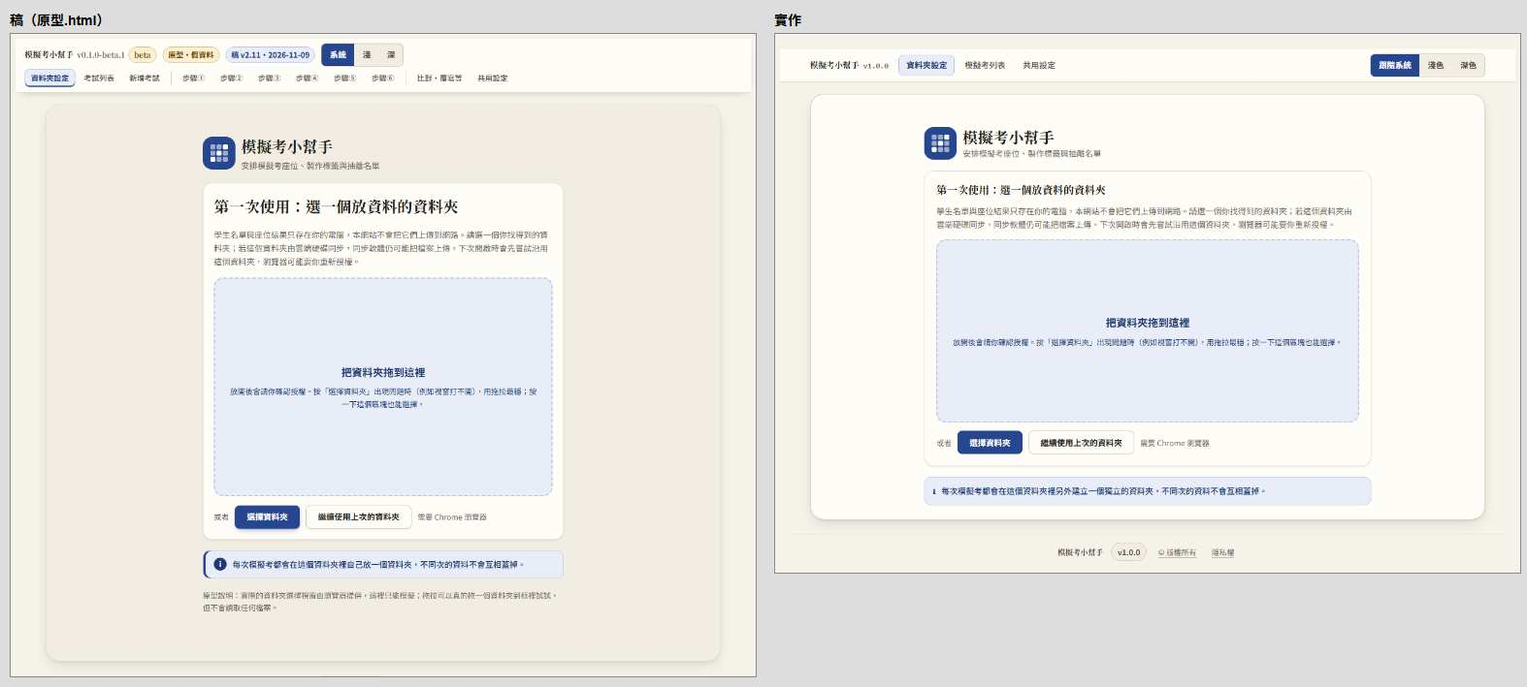
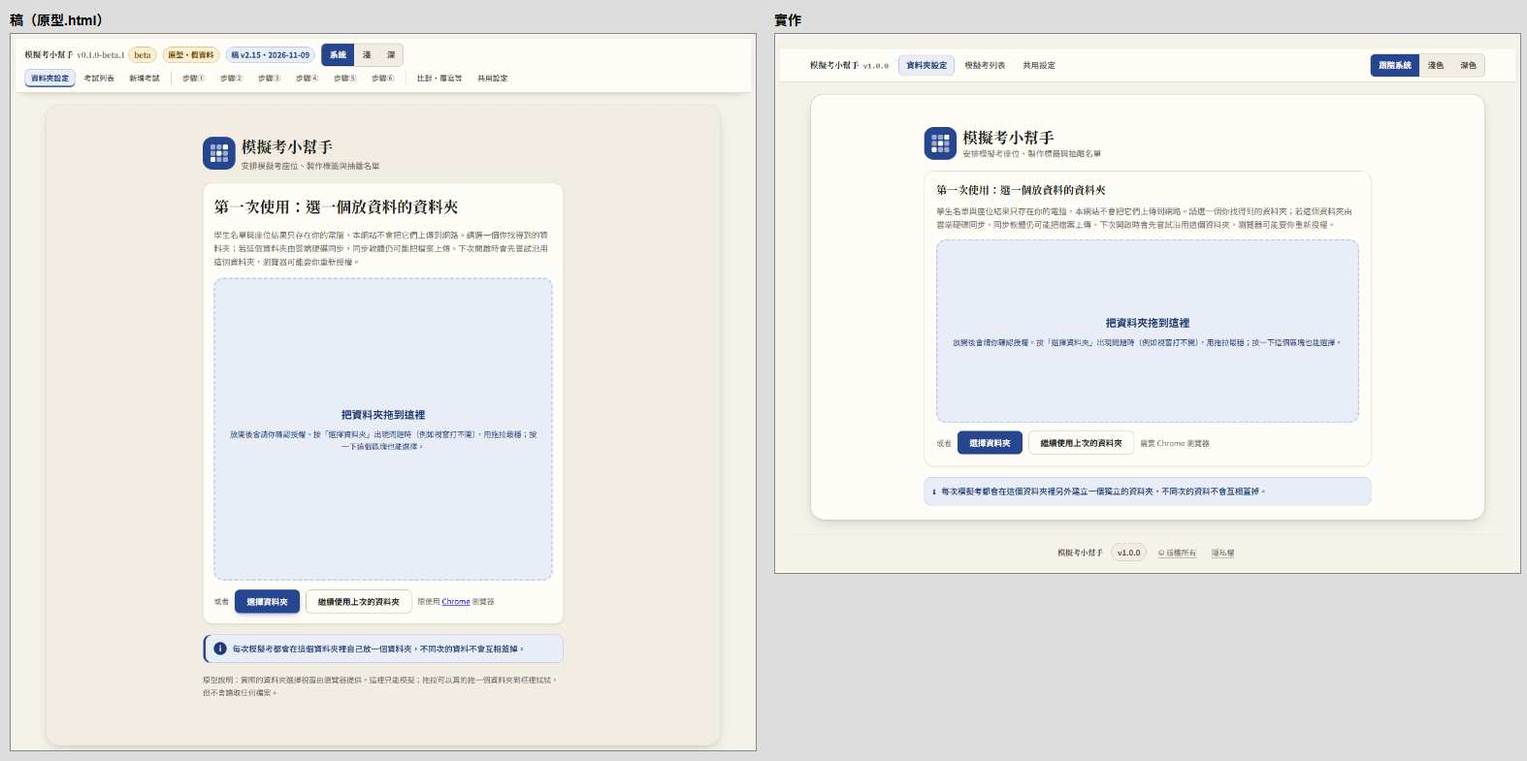
docs: 對稿-甲改依稿 v2.15 重驗（新增摘要列、學生名單命名、Chrome、拖放區等）

diff --git a/docs/design/實作對稿/對稿-甲.md b/docs/design/實作對稿/對稿-甲.md
@@ -1,111 +1,109 @@
-# 對稿-甲：實作 vs 稿（資料夾設定、考試列表、新增考試、步驟①、步驟②）
+# 對稿-甲（第二版，依稿 v2.15）：初始化、考試列表、新增考試、步驟①、步驟②
 
-基準：`origin/main` cf67141，稿 v2.11（`docs/design/mockups/原型.html` 版面基準、`設計系統.html` 元件／資訊基準）。稿以定案為準，實作要改成一致。
-方法：`scripts/compare-shots`（複製到暫存、改埠避免與其他對稿員撞埠）起 vite，headless Chrome 開稿與實作，淺色 375／1280 並排截圖（初始化、列表另有 820 與深色），並用腳本擷取兩邊的文字與按鈕尺寸逐項比對。所有資料為假資料（seed 的「甲生」「範例高中」），截圖在 `docs/design/實作對稿/截圖-甲/`（檔名＝頁名-寬度，左稿右實作）。
+基準：`origin/main` fe65909，稿 **v2.15**（`docs/design/mockups/原型.html` 版面、`設計系統.html` 元件與資訊）。第一版（稿 v2.11／main cf67141，ffb4d9e）已逐項重驗；`git diff cf67141 fe65909 -- src` 為空，**實作自上一版沒有任何改動**，所以第一版的實作端結論仍成立，只有稿端變了。
+規則：稿為準；稿上 D 編號與註解文字不進實作；`.pending` 不比；稿與規格衝突另列。
+方法：同第一版（`scripts/compare-shots` 複製到暫存、改埠，headless Chrome 開稿與實作，並排截圖＋文字與按鈕尺寸擷取）。截圖在 `截圖-甲/`（檔名＝頁名-寬度[深]，左稿右實作，淺色 375／820／1280，深色同寬）。全為假資料。**seed 假資料造成的差異（考科、人數、日期、座位數）不算**。
 
-**重要前提：seed 的假資料造成的差異不算**（例如學測第三次的考科顯示成「數學＋英聽」、各班人數、學生名單 0 人、日期、考生數）。下列只列畫面與行為差異。
+> **範圍說明**：調度員派工寫的負責頁面是「計畫頁・設定頁・初始化」，但本檔底稿與第一版範圍是「初始化、列表、新增考試、步驟①②」。本版沿用本檔範圍重驗；**計畫頁（拉皮稿）與設定頁未納入**，需調度員確認是否另派。
 
-## 一、差異總表（共 39 列；其中 A5、E10、E11、F6、F7 屬稿未定或未驗，不計入確定差異，確定差異 34 項：高 8、中 11、低 15）
+標記：仍成立／**過時**（稿已修掉或已不成立）／**新增**（v2.12～v2.15 帶來）／**衝突**。嚴重度：高＝肉眼一看就不同或功能缺；中＝元件或版面細部；低＝文字用詞。
 
-嚴重度：高＝肉眼一看就不同／功能缺；中＝元件或版面細部不同；低＝文字用詞。
+## 一、新增（v2.12～v2.15，屬本檔範圍）
 
-### A. 全頁共通（步驟①②都會遇到）
-
-| # | 類型 | 稿 | 實作 | 要改的地方 | 嚴重度 | 截圖 |
+| # | 類型 | 稿＝ | 實作＝ | 檔案 | 嚴重度 | 截圖 |
 |---|---|---|---|---|---|---|
-| A1 | UI | 步驟頁最上方一列標題列：「← 模擬考列表」＋考試名稱大標題＋類型 badge＋「已儲存到資料夾」＋「↶ 復原 ▾」＋「設定」鈕，整列在大外框內、左側欄之上 | 沒有這一列。考試名稱與 badge 改放在全站導覽下的次導覽列（名稱＋badge＋①～⑥ 分頁鈕）；「復原」單獨一列靠右；沒有「已儲存」、沒有「設定」入口、沒有返回列表鈕 | `App.tsx`、`StepSide.tsx`、步驟外框元件 | 高 | 04步驟①-1280 |
-| A2 | UI | 全站導覽只有稿工具列（稿特有，不算差異） | 實作多一排「① 考試設定 … ⑥ 下載」分頁鈕，與左側步驟欄重複 | 次導覽列（見 A1），稿沒有這排 | 中 | 04步驟①-1280 |
-| A3 | UI | 左側步驟欄：每項兩行——標題＋狀態與說明（如「已完成・匯入、比對、參加者」「過期・班級色、驗證、統計」），圖示 ✓／!／數字；欄寬約 208 | 每項一行：數字圓＋標題＋靠右的狀態字（目前／已完成／未完成），沒有說明文字、沒有「過期」「不需要」狀態、沒有 ✓／! 圖示；欄寬約 230 | `StepSide.tsx` 步驟列元件 | 高 | 04步驟①-1280、04步驟①-375 |
-| A4 | UI | 「第 1／6 步　已完成 4 步」在步驟欄頂端（兩邊都有，一致） | — | — | — | — |
-| A5 | UI | 沒有常駐摘要列（稿修正-todo B12，使用者尚待裁示） | 步驟欄上方多一列「考生 N 座位 N 空位 N 待處理 N」 | 列入「稿未定」；若使用者裁示不保留，實作要拿掉 | — | 04步驟①-1280 |
-| A6 | UI | 「下一步」鈕文字「完成此步，前往 ② 考試名單」，位於步驟標題卡右側 | 位置相同，文字「下一步：② 考試名單 →」 | 步驟標題卡 | 低 | 04步驟①-1280 |
-| A7 | UI | 步驟標題卡副標一句：「類型、次別、考科」「匯入、比對、參加者」（與步驟欄說明同源） | 副標是整句說明（「名稱、學期、次別與考科表；考科表決定…」「這次誰參加、考什麼科。匯入大考中心格式的考生資料名單…」） | 兩個步驟頁的標題卡文字 | 低 | 04步驟①-1280 |
-| A8 | UI | 稿的復原鈕在標題列，為「↶ 復原」＋「▾」（歷史）；列表頁沒有復原鈕 | 復原鈕在每頁（含新增考試、列表）頁面上方獨立一列靠右，沒有「▾」 | 復原按鈕元件與擺放位置 | 中 | 02模擬考列表-820、03新增模擬考-1280 |
-| A9 | UI | 右側「本次摘要」大字「上學期」單行 | 1280 寬時摘要欄太窄，「上學期／下學期」32px 大字折成兩行（「上學／期」），375 寬正常 | 摘要卡欄寬或字級；稿 v2.2 曾特別修過「學期單行」 | 高 | 04步驟①-1280、04d分科步驟①-1280 |
+| N1 | UI＋行為 | **常駐摘要列**（v2.12/v2.13/v2.15）：步驟內容上方，四格 chip「考生 266／座位 266／空位 0／待處理 1」，待處理為琥珀鈕可點跳第一個問題；其下「待處理逐項」卡：步驟（③ 教室設定）、項目標題（預備教室座位不足）、細節（「社會」那一節：抽離考試 0＋抽離自習 71）、右側「需要 71／可用 0／缺少 71」與「前往處理 ›」；未完成的步驟也算待處理；空位不足改「缺位」紅字；未匯入顯示「尚未匯入考試名單」 | 單行：左「考生 N 座位 N 缺位 N」，右一個琥珀框「⚠ 待處理 3　③ 座位 84 少於考生 210，還差 126 個　去 ③ 增加座位」。沒有四格 chip 樣式、沒有逐項卡、沒有「需要／可用／缺少」三欄、「前往處理」是行內底線連結；待處理只顯示第一項的一句話 | 摘要列元件（`.sumbar`）、`StepSide.tsx` | 高 | 04b步驟②待處理-1280、04步驟①-1280 |
+| N2 | UI | 步驟② 各班人數：**一排橫向班級 chip**（● 溫 44　● 良 45 … 合計 266），一張小卡 | 一張卡片，6 列直式表格（班級色圓＋人數）＋合計，與「名單比對」卡並排佔兩欄 | `Step2.tsx` | 中 | 04步驟②-1280、04b步驟②待處理-1280 |
+| N3 | UI | 步驟② **底部沒有「名單比對」小卡**（v2.15⑤，頂端比對結果提示條已涵蓋） | 仍有「名單比對」卡：「與考試名單已比對…」＋「考生 210 人。」 | `Step2.tsx` | 中 | 04步驟②-1280 |
+| N4 | 文字 | 學生名單命名依部別：步驟②卡片「**高三學生名單**／**國三學生名單**」，按鈕「查看／編輯高三學生名單」；步驟①沿用表「高三學生名單 266 人」 | 「共用學生名單」「查看／編輯共用學生名單」；步驟①沿用表「學生名單快照 210 人」；各班人數卡標題「各班人數（共用學生名單）」 | `Step2.tsx`、`Step1.tsx`、`carry.ts` | 中 | 04步驟②-1280 |
+| N5 | 文字＋元件 | 初始化：「**限使用 Chrome 瀏覽器**」，「Chrome」是連結（`https://www.google.com/intl/zh-TW/chrome/`，另開分頁） | 「需要 Chrome 瀏覽器」，純文字無連結 | `Init.tsx:56` | 中 | 01初始化-1280 |
+| N6 | UI | 初始化拖放區再加大：`min-height:clamp(280px,48vh,520px)`、padding 44/24（1280×900 約 580×430） | `clamp(200px,34vh,380px)`、padding 28/20（約 582×306） | `src/styles/app.css:206` | 中 | 01初始化-1280、01初始化-1280深 |
+| N7 | 文字 | 畫面上不再出現內部決定編號：稿已拿掉「（D52）」「（D34）」「（D42）」「（D64）」 | 實作本來就沒有（一致）。**第一版「稿疑似有誤」1、2 兩項過時** | — | — | — |
 
-### B. 資料夾設定（初始化）
+## 二、全頁共通（步驟①②都會遇到）
 
-| # | 類型 | 稿 | 實作 | 檔案 | 嚴重度 | 截圖 |
-|---|---|---|---|---|---|---|
-| B1 | UI | 大外框底色為米色（頁底），白卡片置於其上，層次明顯 | 外框與卡片同為近白，層次不明顯，看起來比稿「平」 | 外框 CSS（`app.css` 的 `.wrap`／卡片底） | 中 | 01初始化-1280 |
-| B2 | UI | 底部「原型說明」一段（稿特有，不算差異） | — | — | — | — |
-| B3 | 文字 | 提示：「每次模擬考都會在這個資料夾裡自己放一個資料夾，不同次的資料不會互相蓋掉。」 | 「…另外建立一個獨立的資料夾…」 | `Init.tsx` | 低 | 01初始化-1280 |
-| B4 | UI | 拖拉框、「或者／選擇資料夾／繼續使用上次的資料夾」列、尺寸（582×306，clamp(200px,34vh,380px)）：**一致** | 一致 | — | — | — |
+| # | 類型 | 稿＝ | 實作＝ | 檔案 | 嚴重度 | 狀態 | 截圖 |
+|---|---|---|---|---|---|---|---|
+| A1 | UI | 步驟頁最上方標題列：「← 模擬考列表」＋考試名稱大標題＋類型 badge＋「已儲存到資料夾」＋「↶ 復原 ▾」＋「設定」鈕 | 沒有這列；名稱與 badge 放在全站導覽下次導覽列；「復原」另起一列靠右；無「已儲存」、無「設定」入口、無返回列表鈕 | `App.tsx`、`StepSide.tsx` | 高 | 仍成立 | 04步驟①-1280 |
+| A2 | UI | 沒有「① 考試設定 … ⑥ 下載」分頁鈕列 | 次導覽列多一排分頁鈕，與左側步驟欄重複 | 次導覽列 | 中 | 仍成立 | 04步驟①-1280 |
+| A3 | UI | 左側步驟欄每項兩行：標題＋狀態與說明（如「已完成・匯入、比對、參加者」「過期・班級色、驗證、統計」）；✓／!／數字圖示；欄寬約 208 | 每項一行：數字圓＋標題＋靠右狀態字（目前／已完成／未完成），沒有說明、沒有「過期」「不需要」狀態與 ✓／! 圖示；欄寬約 230 | `StepSide.tsx` | 高 | 仍成立 | 04步驟①-1280、04步驟①-375 |
+| A5 | — | 摘要列已定案（見 N1） | — | — | — | **過時**（第一版列為稿未定，現已定案，改併入 N1） | — |
+| A6 | 文字 | 下一步鈕「完成此步，前往 ② 考試名單」，在步驟標題卡右側 | 位置相同；文字「下一步：② 考試名單 →」 | 步驟標題卡 | 低 | 仍成立 | 04步驟①-1280 |
+| A7 | 文字 | 標題卡副標一句：「類型、次別、考科」「匯入、比對、參加者」 | 整句說明（「名稱、學期、次別與考科表；…」「這次誰參加、考什麼科。匯入大考中心格式的考生資料名單…」） | 兩個步驟頁標題卡 | 低 | 仍成立 | 04步驟①-1280 |
+| A8 | UI | 復原鈕在標題列，「↶ 復原」＋「▾」歷史；列表頁沒有復原鈕 | 復原鈕在每頁（含列表、新增考試）頁頂獨立一列靠右，無「▾」 | 復原按鈕元件 | 中 | 仍成立 | 02模擬考列表-820、03新增模擬考-1280 |
+| A9 | UI | 右側「本次摘要」大字「上學期」單行 | 1280 寬時「上學期／下學期」32px 大字折成兩行；375 寬正常 | 摘要卡欄寬／字級 | 高 | 仍成立 | 04步驟①-1280 |
 
-### C. 考試列表
+## 三、初始化
 
-| # | 類型 | 稿 | 實作 | 檔案 | 嚴重度 | 截圖 |
-|---|---|---|---|---|---|---|
-| C1 | UI | 資料夾路徑 chip 顯示完整路徑「D:\模擬考資料」 | 只顯示資料夾名「模擬考資料」（瀏覽器取不到完整路徑，可能是平台限制；需裁示是否接受） | `Exams.tsx` | 低 | 02模擬考列表-820 |
-| C2 | UI | 列表頁頁首沒有復原鈕 | 多一個「↶ 復原」（見 A8） | `Exams.tsx` | 中 | 02模擬考列表-820 |
-| C3 | 文字 | 進度文字「進行中：排座與預覽」 | 「進行中：③ 教室設定」，多了圈號 | `examList.ts` | 低 | 02模擬考列表-820 |
-| C4 | UI | 頁首兩列：全站導覽、標題與按鈕在外框內 | 實作導覽在外框外，標題在框內，與稿相同；版面一致 | — | — | — |
+| # | 類型 | 稿＝ | 實作＝ | 檔案 | 嚴重度 | 狀態 | 截圖 |
+|---|---|---|---|---|---|---|---|
+| B1 | UI | 大外框米色底，白卡片置於其上，層次明顯 | 外框與卡片同為近白，層次不明顯 | `app.css` 外框／卡片底 | 中 | 仍成立 | 01初始化-1280 |
+| B3 | 文字 | 「…裡自己放一個資料夾，不同次的資料不會互相蓋掉。」 | 「…另外建立一個獨立的資料夾…」 | `Init.tsx` | 低 | 仍成立 | 01初始化-1280 |
+| （拖拉框與「或者／選擇資料夾／繼續使用上次的資料夾」列的位置、樣式一致；尺寸見 N6；Chrome 字樣見 N5） | | | | | | | |
 
-（列表卡片、六格進度、圖例、頁尾版本號鈕、開啟鈕：與稿一致。）
+## 四、考試列表
 
-### D. 新增考試
+| # | 類型 | 稿＝ | 實作＝ | 檔案 | 嚴重度 | 狀態 | 截圖 |
+|---|---|---|---|---|---|---|---|
+| C1 | UI | 路徑 chip 顯示「D:\模擬考資料」 | 只顯示「模擬考資料」（瀏覽器取不到完整路徑，平台限制；列為「需使用者決定」） | `Exams.tsx` | 低 | 仍成立 | 02模擬考列表-820 |
+| C2 | UI | 列表頁沒有復原鈕 | 多一個「↶ 復原」（見 A8） | `Exams.tsx` | 中 | 仍成立 | 02模擬考列表-820 |
+| C3 | 文字 | 進度「進行中：排座與預覽」 | 「進行中：③ 教室設定」，多圈號 | `examList.ts` | 低 | 仍成立 | 02模擬考列表-820 |
 
-| # | 類型 | 稿 | 實作 | 檔案 | 嚴重度 | 截圖 |
-|---|---|---|---|---|---|---|
-| D1 | 元件 | 「學期」是並排選項卡：「上學期［已選］」「下學期」（寬約 132／76，高 45） | 原生 `<select>` 下拉（262×40） | `NewExam.tsx:68`（`<select id="exam-term">`） | 高 | 03新增模擬考-1280 |
-| D2 | 文字 | 學期下方說明：「學測預設上學期、分科預設下學期（切換類型時自動帶入，仍可自己改）；學年度依今天的日期自動算：115 學年」 | 只有「學年度依今天的日期自動算：115 學年」，沒有預設說明 | `NewExam.tsx` | 中 | 03新增模擬考-1280 |
-| D3 | 文字 | 會考卡：「…（固定七科），不分文理組、沒有選考」 | 「…（固定七科），沒有選考」，少「不分文理組」 | `NewExam.tsx` 類型卡文字 | 低 | 03新增模擬考-1280 |
-| D4 | 文字 | 第 3 張卡說明：「會帶入『某某』的設定：學生名單、教室、標示與抽離規則、名稱以外的選項」 | 「會帶入『某某』的設定：教室、標示與抽離規則、參加方式、標籤格式與自訂考科」，內容不同（且稿寫的是學生名單） | `NewExam.tsx` | 中 | 03新增模擬考-1280 |
-| D5 | UI | 「← 回模擬考列表」按鈕高 40、寬 135（正常按鈕） | 高 32、寬 115（小按鈕尺寸） | `NewExam.tsx` 頁首鈕 | 低 | 03新增模擬考-1280 |
-| D6 | UI | 第 3 張卡說明沒有圖示（單純文字） | 帶 ℹ 圖示的 info alert | `NewExam.tsx` | 低 | 03新增模擬考-1280 |
-| D7 | 行為 | 切換類型時學期自動帶入（學測上、分科下）、手動改後不再自動 | 邏輯已有（`defaultSemester`、`semEdited`），行為一致 | — | — | — |
+## 五、新增考試
 
-### E. 步驟① 考試設定
+| # | 類型 | 稿＝ | 實作＝ | 檔案 | 嚴重度 | 狀態 | 截圖 |
+|---|---|---|---|---|---|---|---|
+| D1 | 元件 | 「學期」並排選項卡（「上學期［已選］」「下學期」，高 45） | 原生 `<select>` 下拉（262×40） | `NewExam.tsx:68` | 高 | 仍成立 | 03新增模擬考-1280 |
+| D2 | 文字 | 學期說明：「學測預設上學期、分科預設下學期（切換類型時自動帶入，仍可自己改）；學年度依今天的日期自動算：115 學年」 | 只有「學年度依今天的日期自動算：115 學年」 | `NewExam.tsx` | 中 | 仍成立 | 03新增模擬考-1280 |
+| D3 | 文字 | 會考卡「…（固定七科），不分文理組、沒有選考」 | 「…沒有選考」，少「不分文理組」 | `NewExam.tsx` | 低 | 仍成立 | 03新增模擬考-1280 |
+| D4 | 文字 | 第 3 張卡：「會帶入『某某』的設定：學生名單、教室、標示與抽離規則、名稱以外的選項」 | 「…：教室、標示與抽離規則、參加方式、標籤格式與自訂考科」，內容不同 | `NewExam.tsx` | 中 | 仍成立 | 03新增模擬考-1280 |
+| D5 | UI | 「← 回模擬考列表」高 40、寬 135 | 高 32、寬 115（小按鈕） | `NewExam.tsx` | 低 | 仍成立 | 03新增模擬考-1280 |
+| D6 | UI | 第 3 張卡說明沒有圖示 | 帶 ℹ 圖示 info alert | `NewExam.tsx` | 低 | 仍成立 | 03新增模擬考-1280 |
 
-| # | 類型 | 稿 | 實作 | 檔案 | 嚴重度 | 截圖 |
-|---|---|---|---|---|---|---|
-| E1 | 元件 | 「學期」並排選項卡（同 D1），名稱與學期在同一列兩欄 | `<select>`，欄位為上下兩欄（名稱列、學期列堆疊） | `Step1.tsx` | 高 | 04步驟①-1280 |
-| E2 | UI | 基本資料沒有卡片標題；直接是欄位（在步驟標題卡之下的卡片內） | 卡片有 h3「基本資料」＋副標「類型建立後不可更改。」 | `Step1.tsx` | 低 | 04步驟①-1280 |
-| E3 | 文字 | 學期說明：「學測預設上學期、分科預設下學期；學年度（115）依建立日期自動算」 | 「學年度依建立日期自動算」，沒有預設說明、沒有學年度數字 | `Step1.tsx` | 中 | 04步驟①-1280 |
-| E4 | 文字 | 「類型與對象」：「高中部・學測」「高三」 | 「學測」「高三」，少「高中部・」 | `Step1.tsx` | 低 | 04步驟①-1280 |
-| E5 | 文字 | 次別說明：「第 1、2 次數學是單一科，第 3 次起分為數學A、數學B」 | 「第 1、2 次：數學為單一科，另考英聽　｜　第 3 次起：數學分為數學A、數學B」 | `Step1.tsx` | 低 | 04步驟①-1280 |
-| E6 | UI | 375 寬次別鈕一排四顆等寬 | 375 寬時四顆鈕擠成窄鈕，字折行（「第一／次」） | `Step1.tsx` 次別 seg 鈕 | 中 | 04步驟①-375 |
-| E7 | 文字 | 考科表標題「考科表」，副標「依類型與次別自動帶出，可以新增、編輯、刪除（D52）」（D52 為稿內部字樣） | 標題「本次考科表」，副標「…；只影響這一次模擬考。」 | `Step1.tsx` | 低 | 04步驟①-1280 |
-| E8 | 文字 | 沿用表第二列：「共用學生名單 266 人；…」；第四列：「數學由單一科改為數學A、數學B，組別對照表要重新確認」 | 「學生名單快照 210 人；…」（D84：現況應稱「共用學生名單」）；「數學分科方式與上次不同…」 | `Step1.tsx` 沿用表、`carry.ts` | 中 | 04步驟①-1280 |
-| E9 | UI | 摘要卡副標：「高中部・學測・115 學年・高三」 | 「學測・115 學年・高中部」，順序與內容不同 | `StepSide.tsx` | 低 | 04步驟①-1280 |
-| E10 | 行為 | 沒有「次別改了，④ 已標為過期」的警示卡 | 摘要欄下方多一張琥珀警示卡（可能是改次別後才有；seed 觸發） | `StepSide.tsx` | 低 | 04步驟①-1280 |
-| E11 | UI | 分科：次別欄標「分科有沒有次別…還沒確認」（`.pending`，稿未定，見第三節） | 沒有次別欄 | — | — | 04d分科步驟①-1280 |
-| E12 | 文字／UI | 分科考科表上方有一則說明 alert：「分科八科都是選考：數學甲…；國文、英文不加考（採學測成績）。每位考生考哪幾科，依考試名單的「組別／考科」文字決定…」 | 沒有這則 alert（會考、學測有 alert，分科缺） | `Step1.tsx` | 中 | 04d分科步驟①-1280 |
+## 六、步驟① 考試設定
 
-### F. 步驟② 考試名單
+| # | 類型 | 稿＝ | 實作＝ | 檔案 | 嚴重度 | 狀態 | 截圖 |
+|---|---|---|---|---|---|---|---|
+| E1 | 元件 | 學期並排選項卡；名稱與學期同一列兩欄 | `<select>`；名稱列、學期列上下堆疊 | `Step1.tsx` | 高 | 仍成立 | 04步驟①-1280 |
+| E2 | UI | 基本資料沒有卡片標題 | 卡片有 h3「基本資料」＋副標 | `Step1.tsx` | 低 | 仍成立 | 04步驟①-1280 |
+| E3 | 文字 | 「學測預設上學期、分科預設下學期；學年度（115）依建立日期自動算」 | 「學年度依建立日期自動算」 | `Step1.tsx` | 中 | 仍成立 | 04步驟①-1280 |
+| E4 | 文字 | 「高中部・學測」「高三」 | 「學測」「高三」 | `Step1.tsx` | 低 | 仍成立 | 04步驟①-1280 |
+| E5 | 文字 | 「第 1、2 次數學是單一科，第 3 次起分為數學A、數學B」 | 「第 1、2 次：數學為單一科，另考英聽　｜　第 3 次起：…」 | `Step1.tsx` | 低 | 仍成立 | 04步驟①-1280 |
+| E6 | UI | 375 寬次別鈕一排四顆等寬 | 375 寬四顆鈕過窄、字折行（「第一／次」） | `Step1.tsx` | 中 | 仍成立 | 04步驟①-375 |
+| E7 | 文字 | 標題「考科表」，副標「依類型與次別自動帶出，可以新增、編輯、刪除」（v2.15 已去掉 D52） | 標題「本次考科表」，副標多「；只影響這一次模擬考。」 | `Step1.tsx` | 低 | 仍成立（稿已去 D52，只剩標題與副標差異） | 04步驟①-1280 |
+| E8 | 文字 | 沿用表：「高三學生名單 266 人；…」「數學由單一科改為數學A、數學B，組別對照表要重新確認」 | 「學生名單快照 210 人；…」「數學分科方式與上次不同…」 | `Step1.tsx`、`carry.ts` | 中 | 仍成立（名稱見 N4） | 04步驟①-1280 |
+| E9 | 文字 | 摘要卡副標「高中部・學測・115 學年・高三」 | 「學測・115 學年・高中部」 | `StepSide.tsx` | 低 | 仍成立 | 04步驟①-1280 |
+| E10 | 行為 | 沒有「次別改了，④ 已標為過期」警示卡 | 摘要欄下多一張琥珀警示卡（改次別後出現） | `StepSide.tsx` | 低 | 仍成立（是否算實作多餘，待使用者裁示；稿未畫） | 04步驟①-1280 |
+| E12 | 文字／UI | 分科考科表上方 alert：「分科八科都是選考：數學甲…；國文、英文不加考（採學測成績）。每位考生考哪幾科，依考試名單的「組別／考科」文字決定…」 | 沒有這則 alert | `Step1.tsx` | 中 | 仍成立 | 04d分科步驟①-1280 |
 
-| # | 類型 | 稿 | 實作 | 檔案 | 嚴重度 | 截圖 |
-|---|---|---|---|---|---|---|
-| F1 | 文字 | 檔名 badge：「考試名單.xlsx（模擬檔）」 | 「Excel（.xlsx）」＋多一個「已完成」badge | `Step2.tsx` | 低 | 04步驟②-1280 |
-| F2 | 文字 | 「各班人數」 | 「各班人數（共用學生名單）」 | `Step2.tsx` | 低 | 04步驟②-1280 |
-| F3 | 文字 | 「名單比對（D42）」（內部編號，稿字樣） | 「名單比對」＋多一行「考生 210 人。」 | `Step2.tsx` | 低 | 04步驟②-1280 |
-| F4 | UI | 「誰會參加」下的提示：全員參加為純文字，部分參加為提示 | 兩種皆為 ℹ info alert（版型略不同）；文字也不同（稿：「沒報名的人不算差異，只在統計列顯示「未參加 12 人」…」；實作：「共用學生名單裡有、但不在本次考試名單的人，不視為名單錯誤，只在…」） | `Step2.tsx:178 附近` | 低 | 04d分科步驟②-1280 |
-| F5 | UI | 分科：「匯入預覽：組別／考科」整張卡（說明＋六列預覽表：班級、座號、姓名、名單上的「組別／考科」、解析出的選考科目，含預設理組／文組、「依名單」標示） | 步驟頁沒有這張卡（可能只在匯入精靈內；本次沒有實際走匯入精靈驗證） | `Step2.tsx`、`ImportWizard.tsx` | 高 | 04d分科步驟②-1280 |
-| F6 | UI | 分科：預覽卡下有「標少數與抽離沿用學測…」小字（含 `.pending`） | 沒有 | — | — | 04d分科步驟②-1280 |
-| F7 | 行為 | 名單比對為獨立頁面：統計（差異／已處理／未處理）、每筆一張卡（編號、類型 badge、考試名單 vs 學生名單、三選一：以考試名單為準／以學生名單為準／手動編輯）、新增班級（D83）、全科缺考（D79）、「先不處理」「還有 N 筆沒選」 | 原始碼有對應（`Step2.tsx` 94–130、214–232：先不處理、手動編輯、全科缺考勾選）；**本次沒有實際走到比對畫面**（seed 沒有差異），畫面是否與稿一致未驗 | `Step2.tsx` | 未驗 | 04e名單比對-1280（實作右側停在步驟②總覽） |
-| F8 | UI | 狀態 alert 內按鈕「再匯入一次」＝一般大小；實作為 ConfirmButton（有確認視窗）——稿沒描述 | 實作多確認視窗（`confirmCopy.reimportList`），稿未畫 | `Step2.tsx:143` | 低（實作多出，屬稿未畫） | — |
+## 七、步驟② 考試名單
 
-## 二、最嚴重的 5 項
-1. **A1 標題列**：步驟頁缺「← 模擬考列表／名稱／badge／已儲存／復原▾／設定」整列（所有步驟頁共通）。
-2. **A3 步驟欄**：欄內項目缺說明文字與「過期」「不需要」狀態、圖示不同。
-3. **D1／E1 學期元件**：稿是並排選項卡，實作是下拉（新增考試與步驟①）。
-4. **A9 摘要卡**：1280 寬「上學期」折成兩行。
-5. **F5 分科匯入預覽**：步驟②沒有「組別／考科」預覽卡（若只存在於精靈中也需確認）。
+| # | 類型 | 稿＝ | 實作＝ | 檔案 | 嚴重度 | 狀態 | 截圖 |
+|---|---|---|---|---|---|---|---|
+| F1 | 文字 | 檔名 badge「考試名單.xlsx（模擬檔）」 | 「Excel（.xlsx）」＋多「已完成」badge | `Step2.tsx` | 低 | 仍成立 | 04步驟②-1280 |
+| F2 | — | （各班人數見 N2、N4） | — | — | — | **過時**，併入 N2／N4 | — |
+| F3 | — | （底部「名單比對」見 N3） | — | — | — | **過時**，併入 N3 | — |
+| F4 | UI＋文字 | 「誰會參加」提示：部分參加時「沒報名的人不算差異，只在統計列顯示「未參加 12 人」，不排座、不出現在座位表」 | ℹ info alert，措辭不同：「共用學生名單裡有、但不在本次考試名單的人，不視為名單錯誤，只在…」 | `Step2.tsx` | 低 | 仍成立 | 04d分科步驟②-1280 |
+| F5 | UI | 分科：「匯入預覽：組別／考科」整張卡（說明＋預覽表：班級、座號、姓名、名單上的「組別／考科」、解析出的選考科目，含預設理組／文組、「依名單」標示） | 步驟頁沒有這張卡（可能只在匯入精靈；未走精靈驗證） | `Step2.tsx`、`ImportWizard.tsx` | 高 | 仍成立 | 04d分科步驟②-1280 |
+| F7 | 行為 | 名單比對為獨立頁：統計、逐筆卡、三選一（以考試名單為準／以學生名單為準／手動編輯）、新增班級、全科缺考、「先不處理」「還有 N 筆沒選」 | 原始碼有對應（`Step2.tsx` 94–130、214–232）；本次沒走到比對畫面，**畫面是否一致未驗** | `Step2.tsx` | 未驗 | 仍成立 | — |
+| F8 | 行為 | 「再匯入一次」直接進行 | 先跳確認視窗（`confirmCopy.reimportList`），稿未畫 | `Step2.tsx:143` | 低 | 仍成立（實作多出） | — |
 
-## 三、稿未定（稿上標 `.pending`，不算差異）
-- 分科次別（有無、怎麼分，原型 837 行）；分科標少數與抽離沿用學測、組別代碼表（1183）；教室文理組未確認標記（1292）；「接近一半」門檻（1319）；個別覆寫換座位限制（1362）。
-- 常駐摘要列保留與否（稿修正-todo B12，使用者尚待裁示）→ 見 A5。
+## 八、衝突（稿與規格互相衝突，不自行決定）
 
-## 四、稿疑似有誤（只記錄，不改）
-1. 稿內「D52」「D34」「D42」等決定編號直接顯示在畫面文字（考科表副標、沿用上次卡、名單比對）——給使用者看的畫面不該出現內部編號。
-2. 稿步驟①的考科表副標與沿用卡說明寫「（D52）」「（D34）」，實作沒有；以稿為準會把內部編號搬進實作，建議先問。
-3. 稿列表頁「D:\模擬考資料」完整路徑，網頁無法取得，實作不可能一致（見 C1）。
-4. 稿 1280 寬步驟①的資料（數學A／B）與 seed 不同純屬資料，非稿錯。
-5. 稿「下一步」鈕文字與 D58 描述「完成此步，前往…」一致，但 D88 說「下一步放標題卡右側」；兩者不衝突，僅提醒文字以哪一版為準。
+| # | 稿＝ | 規格＝ | 需要誰決定 |
+|---|---|---|---|
+| X1 | 初始化「限使用 Chrome 瀏覽器」，Chrome 為連結（v2.15，使用者 2026-11-09 留言） | `decisions.md` D53：「畫面文字只寫『需要 Chrome』；偵測到非 Chrome 時提醒一次」；實作 `Init.tsx:56`、`62` 現為「需要 Chrome」「請改用 Chrome 開啟」 | 使用者（以 v2.15 為準，同時更新 D53 字面） |
+| X2 | 稿列表頁路徑 chip「D:\模擬考資料」完整路徑 | 瀏覽器 File System Access 取不到完整路徑，實作不可能一致 | 使用者（稿改成資料夾名，或接受差異） |
 
-## 五、沒驗到的地方
-- **寬度**：初始化、列表有 375／820／1280；新增考試、步驟①②只看 375／1280，**820 沒看**。
-- **深色**：只看初始化與列表（淺深各 3 寬）的截圖檔，步驟①② 與新增考試沒有看深色；深色是否有差異未驗。
-- **頁面**：名單比對頁、匯入精靈（含 xlsx 解析畫面、未知班級新增、全科缺考）沒實際走到（seed 無差異、沒有執行匯入）；F5／F7 只能靠原始碼與稿比對。其他彈窗（考科編輯視窗、確認視窗）沒比。
-- **行為**：只驗了新增考試學期預設（原始碼確認，`NewExam.tsx` 的 `defaultSemester` 與 `semEdited`），沒實際點過學期切換；步驟①次別改動後的連動警示只看到結果沒追原因。
-- 資料：seed 使 6 個項目（考科、人數、時間）不同，已排除。
+## 九、稿未定（`.pending`，不比）
+分科次別（有無、怎麼分）、分科標少數與抽離沿用學測／組別代碼表、教室文理組未確認標記、「接近一半」門檻、個別覆寫換座位限制。**常駐摘要列已不是稿未定**（見 N1）。
+
+## 十、第一版「稿疑似有誤」重驗
+1、2（稿內 D 編號）：**過時**，v2.15 已拿掉。3（路徑）：轉為衝突 X2。其餘不變。
+
+## 十一、沒驗到的地方
+- **範圍**：計畫頁（拉皮稿）、設定頁未納入；步驟③ 的座位上限 A3 49／B4 48 與教室說明句（v2.13/v2.14）不在本檔頁面，沒比。
+- **頁面**：名單比對頁、匯入精靈、考科編輯視窗未走到（seed 無差異）。
+- **深色**：淺深各寬度都有截圖，但只細看了初始化深色；其餘頁的深色未逐項比。
+- **行為**：新增考試學期預設只讀原始碼（`defaultSemester`、`semEdited`）；摘要列「點待處理跳第一個問題」的互動、「待處理逐項」在多項時的樣子沒實測（seed 只有一項問題）。
+- seed 假資料造成的差異已排除。
